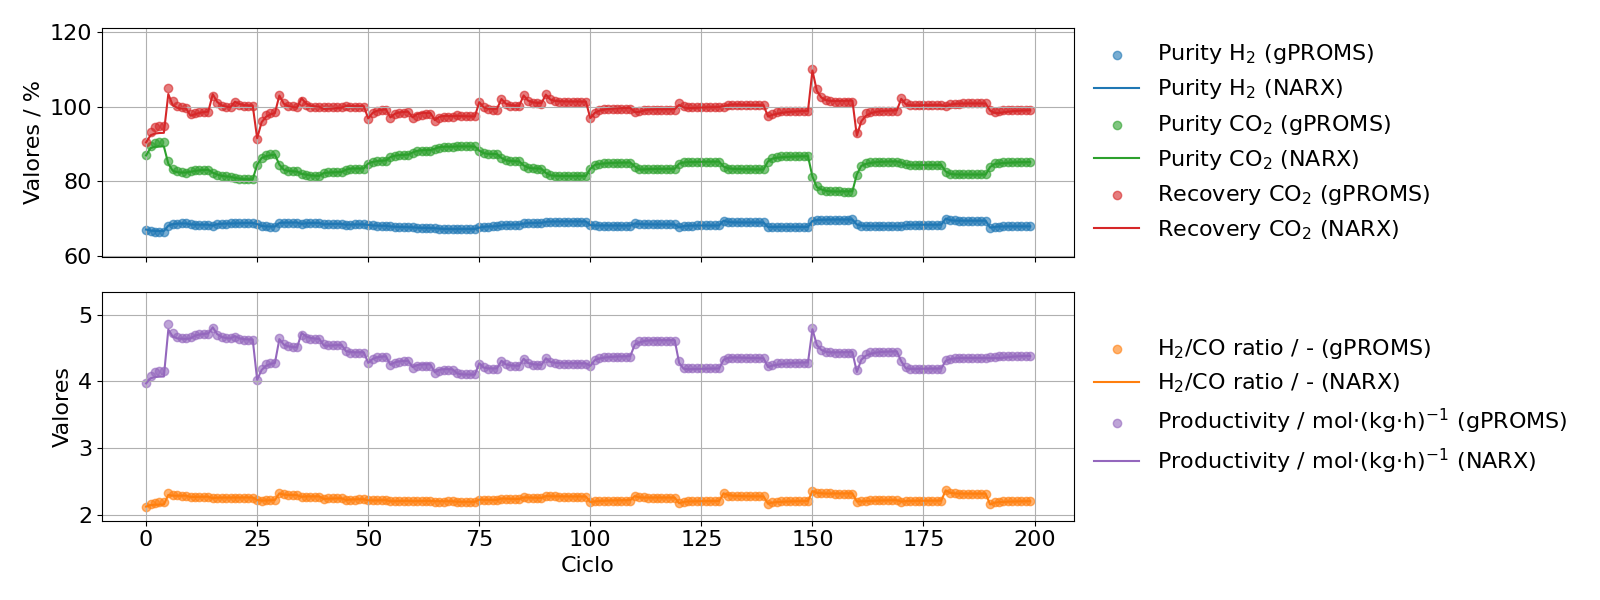
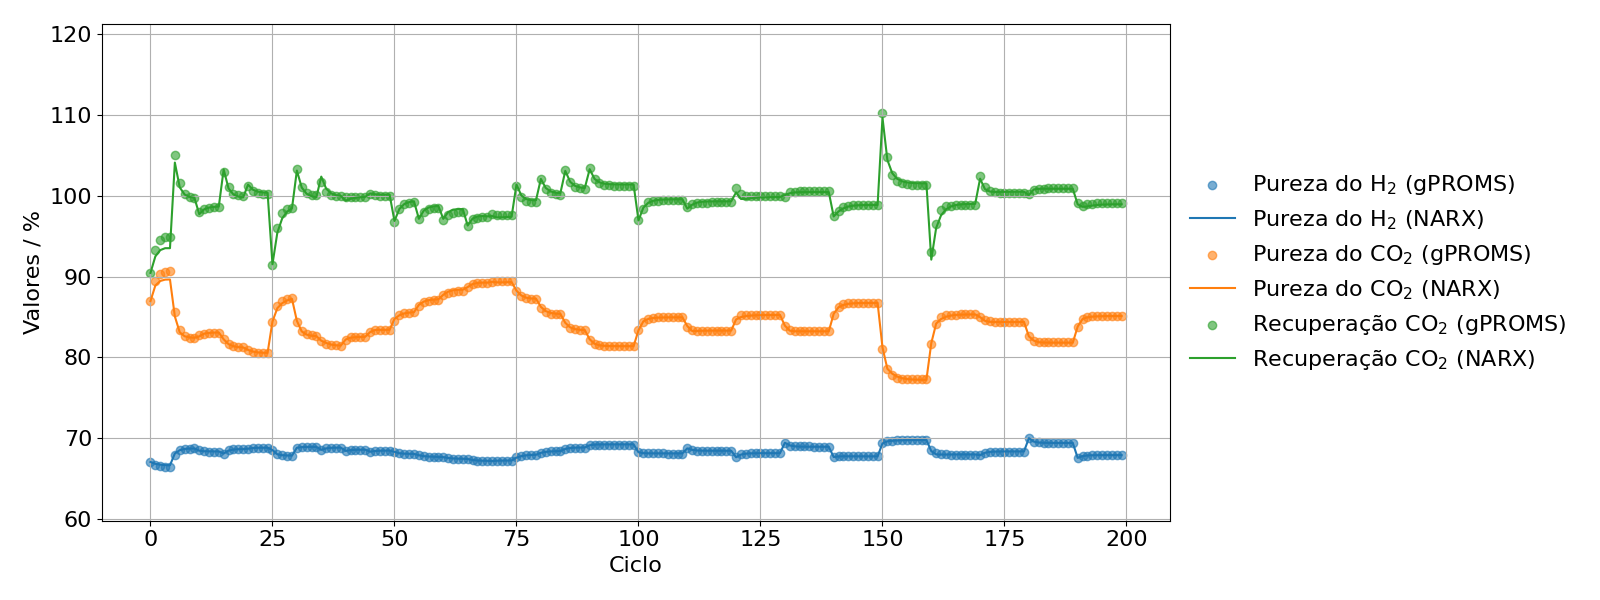
Remove ratio and productivity from system output

diff --git a/src/lib/plot.py b/src/lib/plot.py
@@ -1,6 +1,8 @@
 import matplotlib.pyplot as plt
 from matplotlib import colors as mcolors
 
+from .read_data import u_labels, y_labels
+
 colors = list(mcolors.TABLEAU_COLORS.keys())
 
 plt.rcParams.update(
@@ -19,58 +21,63 @@ def legend_outside(ax: plt.Axes):
 
 
 def plot_comparison(cycles, real_y, model_y, model_name):
-    _, axes = plt.subplots(2, 1, sharex=True)
-    variables = [
-        ("Purity H$_2$", 0),
-        ("H$_2$/CO ratio / -", 1),
-        ("Purity CO$_2$", 2),
-        ("Recovery CO$_2$", 3),
-        ("Productivity / mol$\\cdot$(kg·h)$^{-1}$", 4),
-    ]
+    ymin = min(real_y[:, i].min() for i in range(len(y_labels)))
+    ymax = max(real_y[:, i].max() for i in range(len(y_labels)))
 
-    group1 = [0, 2, 3]
-    ymin = min(real_y[:, variables[i][1]].min() for i in group1)
-    ymax = max(real_y[:, variables[i][1]].max() for i in group1)
-    ax = axes[0]
-    for i in group1:
-        label, idx = variables[i]
-        ax.scatter(
+    for i in range(len(y_labels)):
+        plt.scatter(
             cycles,
-            real_y[:, idx],
-            label=f"{label} (gPROMS)",
+            real_y[:, i],
+            label=f"{y_labels[i]} (gPROMS)",
             color=colors[i],
             alpha=0.6,
         )
-        ax.plot(
-            cycles, model_y[:, idx], label=f"{label} ({model_name})", color=colors[i]
-        )
-    ax.set_ylim(ymin * 0.9, ymax * 1.1)
-    ax.set_ylabel("Valores / %")
-    legend_outside(ax)
-
-    group2 = [1, 4]
-    ymin = min(real_y[:, variables[i][1]].min() for i in group2)
-    ymax = max(real_y[:, variables[i][1]].max() for i in group2)
-    ax = axes[1]
-    for i in group2:
-        ax = axes[1]
-        label, idx = variables[i]
-        ax.scatter(
+        plt.plot(
             cycles,
-            real_y[:, idx],
-            label=f"{label} (gPROMS)",
+            model_y[:, i],
+            label=f"{y_labels[i]} ({model_name})",
             color=colors[i],
-            alpha=0.6,
         )
-        ax.plot(
-            cycles, model_y[:, idx], label=f"{label} ({model_name})", color=colors[i]
-        )
-    ax.set_ylim(ymin * 0.9, ymax * 1.1)
-    ax.set_ylabel("Valores")
-    legend_outside(ax)
+    plt.ylim(ymin * 0.9, ymax * 1.1)
 
-    axes[-1].set_xlabel("Ciclo")
+    legend_outside(plt.gca())
+    plt.ylabel("Valores / %")
+    plt.xlabel("Ciclo")
 
     # plt.show()
     plt.savefig(f"../figures/comparision-{model_name}.png")
+    plt.close()
+
+
+def plot_control(cycles, u, y, sp, u_sp, model_name: str):
+    # --- Criar subplots ---
+    _, axes = plt.subplots(2, 1, sharex=True, figsize=(10, 8))
+
+    # Entradas
+    for i in range(len(u_labels)):
+        axes[0].plot(cycles, u[:, i], label=u_labels[i])
+        # axes[0].plot(cycles, u_sp[:, i], linestyle="--", color=colors[i], label=f"{u_labels[i]} (SP)")
+
+    axes[0].set_ylabel("Duração da etapa (s)")
+
+    # Saídas
+    for i in range(len(y_labels)):
+        axes[1].plot(cycles, y[:, i], label=y_labels[i], color=colors[i])
+        axes[1].plot(
+            cycles,
+            sp[:, i],
+            linestyle="--",
+            color=colors[i],
+            label=f"{y_labels[i]} (SP)",
+        )
+
+    axes[1].set_ylabel("KPIs")
+
+    axes[-1].set_xlabel("Ciclo")
+    for ax in axes:
+        legend_outside(ax)
+        ax.grid(True)
+
+    plt.tight_layout()
+    plt.savefig(f"../figures/{model_name}.svg")
     plt.close()

diff --git a/src/lib/read_data.py b/src/lib/read_data.py
@@ -9,19 +9,23 @@ t_rinse = df["t_rinse"].values
 t_blow = df["t_blow"].values
 t_purge = df["t_purge"].values
 
+u_labels = ["$t_{feed}$", "$t_{rinse}$", "$t_{blow}$", "$t_{purge}$"]
+
+y_labels = [
+    "Pureza do H$_2$",
+    "Pureza do CO$_2$",
+    "Recuperação CO$_2$",
+]
+
 purity_H2 = df["purity_H2"].values
-H2_CO_ratio = df["H2_CO_ratio"].values
 purity_CO2 = df["purity_CO2"].values
 recovery_CO2 = df["recovery_CO2"].values
-productivity = df["productivity"].values
 
 y = np.array(
     [
         purity_H2,
-        H2_CO_ratio,
         purity_CO2,
         recovery_CO2,
-        productivity,
     ]
 ).T
 u = np.array([t_feed, t_rinse, t_blow, t_purge]).T
